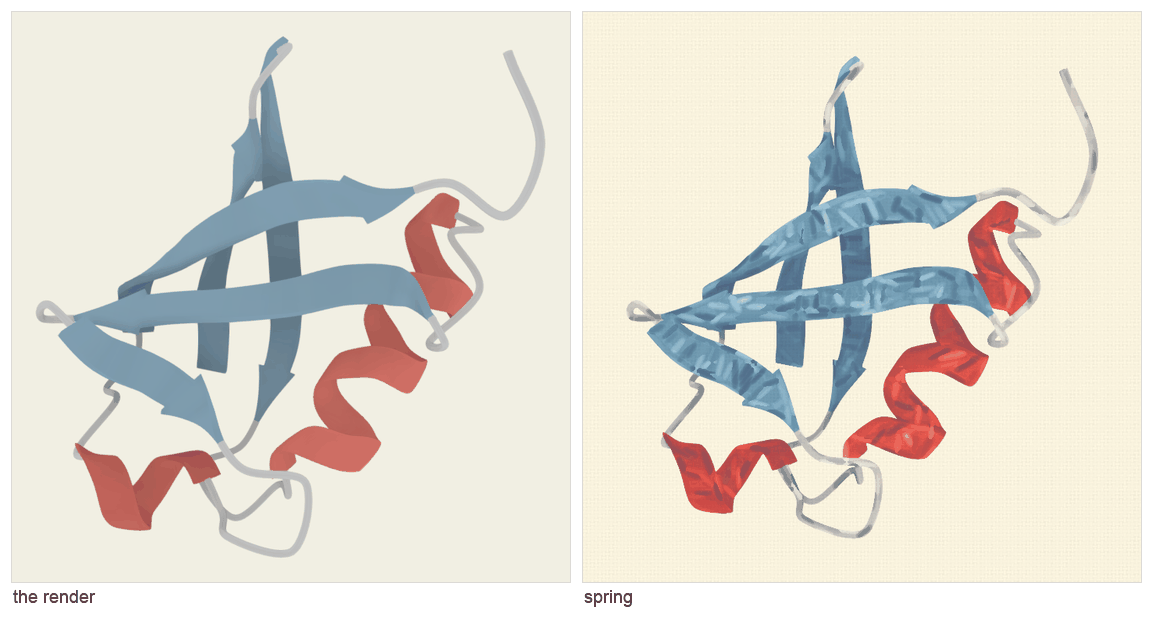
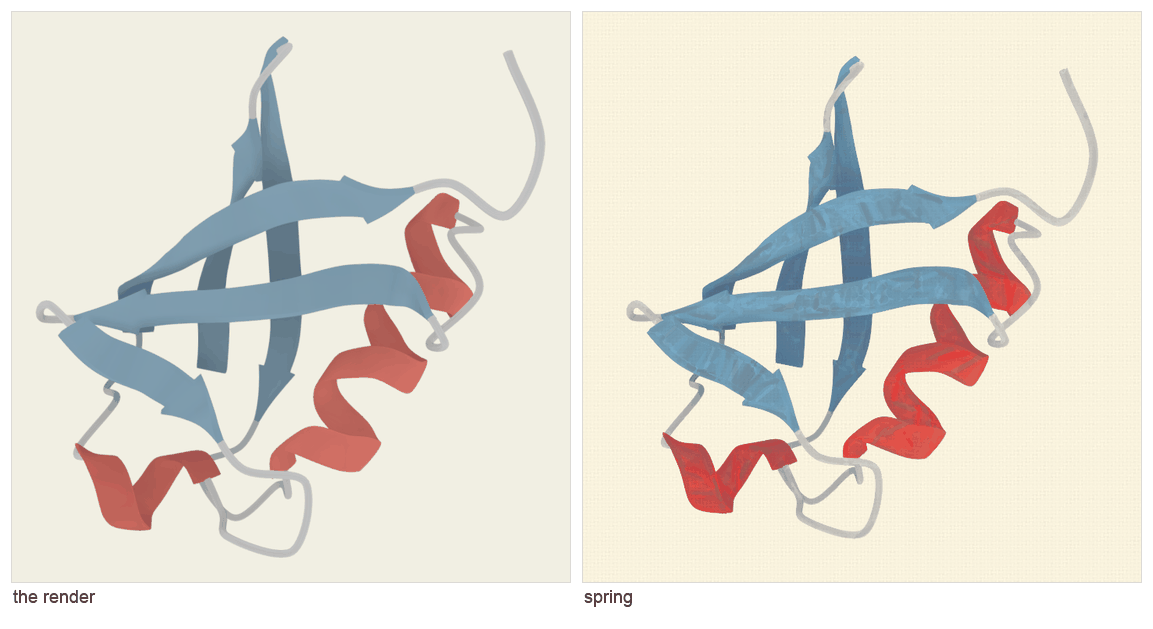
Stop the brush marks reading as light on foil
Charlie again: *"loops look better but the ribbons still look bad, like crumpled
mylar."* The relight was already off, so this was something else — and looking
at the plate rather than at the code found it in one pass.

**The flecks were the mylar.** Each mark took a random shift of up to 30% in
*value*, and marks covered only part of the ribbon. So the picture was a smooth
curved surface with isolated bright and dark dashes scattered over it, which is
exactly what a crumpled reflective sheet looks like — random brightness *is*
light catching facets at random angles, whether or not anything was relit.

Two changes, and they are the same idea twice:

- **The marks tile.** `strokeFill` past 1, so the surface is made *of* marks
  rather than having marks on it. A mark that covers part of a surface reads as
  a fleck sitting on it; a surface made entirely of marks reads as paint.
- **The variation moved from value into chroma.** A loaded brush carries more or
  less pigment far more than it carries more or less light, so `load` shifts
  saturation — hue and lightness held, through the same Oklab path the chroma
  boost uses — and `bristle` keeps only a whisper of value, 0.05 to 0.07 against
  the 0.30 that was doing the damage.

The three bright looks now also differ in *how much brush you see*: `spring` is
the quietest, `orchard` in between, `poster` the most worked, at 0.24 / 0.42 /
0.62 of load with mark widths to match.
[…]

diff --git a/viewer/src/painterly-looks.ts b/viewer/src/painterly-looks.ts
@@ -82,8 +82,17 @@ export interface Look {
    *  a plain wedge; at 1 it is an eased ridge with the paint thinning to
    *  nothing at both edges, which is the section a bristle leaves. */
   ridge: number;
-  /** How strongly the bristle modulates colour. */
+  /** How much a stroke's own tone shifts its *value*.
+   *
+   * Small, and it has to be. A random brightness per mark on a curved surface
+   * is what crumpled foil looks like — random brightness *is* light catching
+   * facets at random angles — and at 0.30 that is exactly what it looked
+   * like. */
   bristle: number;
+  /** How much a stroke's own tone shifts its *chroma*: how loaded the brush
+   *  was. This is where the variation belongs, because a brush carries more or
+   *  less pigment far more than it carries more or less light. */
+  load: number;
   /** How thick the paint stands off the canvas, for the raking light.
    *
    * **Zero for every bright look, and that is the finding rather than a
@@ -147,9 +156,10 @@ export const PAINTERLY_LOOKS: Record<string, Look> = {
     // where the brush went — but it describes the form rather than performing.
     stroke: 1 / 26,
     grain: 1 / 150,
-    strokeFill: 0.8,
+    strokeFill: 1.15,
     ridge: 0.55,
-    bristle: 0.2,
+    bristle: 0.07,
+    load: 0.2,
     relief: 6,
     specular: 0.04,
     chroma: 1.0,
@@ -165,8 +175,13 @@ export const PAINTERLY_LOOKS: Record<string, Look> = {
   // and stays where it is instead of going brown and going down. And `chroma`
   // is above 1, because the abstraction is a mean and a mean desaturates.
 
-  // Soft, high-key, luminous. A gouache rather than an oil: matte, barely any
-  // specular, a light weave.
+  // The three bright looks differ in *how much brush you see*, as well as in
+  // colour: `spring` is the quietest, `orchard` in between, `poster` the most
+  // worked. That is `load` and the mark's width — not `bristle`, which is
+  // value, and value is the one thing a brush mark must not vary much.
+  //
+  // Soft, high-key, luminous. A gouache rather than an oil: matte, no specular,
+  // a light weave, and the quietest brush of the three.
   spring: {
     glaze: 0.34,
     shadowColor: [0.62, 0.66, 0.92],
@@ -181,9 +196,10 @@ export const PAINTERLY_LOOKS: Record<string, Look> = {
     weave: 0.05,
     stroke: 1 / 30,
     grain: 1 / 170,
-    strokeFill: 0.78,
+    strokeFill: 1.2,
     ridge: 0.7,
-    bristle: 0.3,
+    bristle: 0.06,
+    load: 0.24,
     relief: 0,
     specular: 0.0,
     chroma: 1.5,
@@ -205,10 +221,11 @@ export const PAINTERLY_LOOKS: Record<string, Look> = {
     eccentricity: 1,
     weave: 0.04,
     stroke: 1 / 34,
-    grain: 1 / 190,
-    strokeFill: 0.72,
+    grain: 1 / 105,
+    strokeFill: 1.0,
     ridge: 0.8,
-    bristle: 0.32,
+    bristle: 0.05,
+    load: 0.62,
     relief: 0,
     specular: 0.0,
     chroma: 1.55,
@@ -229,10 +246,11 @@ export const PAINTERLY_LOOKS: Record<string, Look> = {
     eccentricity: 1,
     weave: 0.06,
     stroke: 1 / 28,
-    grain: 1 / 160,
-    strokeFill: 0.76,
+    grain: 1 / 130,
+    strokeFill: 1.1,
     ridge: 0.65,
-    bristle: 0.3,
+    bristle: 0.07,
+    load: 0.42,
     relief: 0,
     specular: 0.0,
     chroma: 1.4,

diff --git a/viewer/src/painterly-shaders.ts b/viewer/src/painterly-shaders.ts
@@ -257,6 +257,7 @@ uniform float uStrokeLen;
 uniform float uStrokeWidth;
 uniform float uStrokeFill;
 uniform float uBristle;
+uniform float uLoad;
 uniform float uRidge;
 uniform float uRelief;
 uniform float uSpecular;
@@ -503,6 +504,11 @@ vec3 strokeAt(const in vec2 P) {
             float r = along * along * along * along + across * across;
             if (r >= 1.0) continue;
 
+            // Nearest paint wins, and the marks are laid to *tile* rather than
+            // to speckle. A mark that covers part of a surface reads as a
+            // fleck sitting on it; a surface made entirely of marks reads as
+            // paint. The first is what crumpled foil looks like, and it is
+            // what this produced until the fill went past 1.
             float cover = 1.0 - r;
             if (cover <= best.z) continue;
             // Across the width: a crest with the paint thinning to nothing at
@@ -663,9 +669,18 @@ void main(void) {
     // not a threshold anybody has to tune.
     float onPaint = z0 > -2.0 * uFar ? 1.0 : uGroundPaint;
 
-    // Tone varies *by stroke*, not by pixel. That is the whole difference
-    // between a loaded brush and a layer of grain.
-    col *= 1.0 + uBristle * onPaint * (mark.x - 0.5) * 2.0 * mark.z;
+    // Tone varies by stroke, and mostly in *chroma* rather than in value.
+    //
+    // Value was the mylar. A random brightness shift per mark, on a curved
+    // surface, is exactly what a crumpled reflective sheet looks like — it
+    // reads as light catching facets at random angles, because that is what
+    // random brightness *is*. A loaded brush varies far more in how much
+    // pigment it is carrying than in how bright it is, so the variation goes
+    // into chroma, where it reads as paint, and only a whisper is left in
+    // value.
+    float pigment = (mark.x - 0.5) * 2.0 * mark.z * onPaint;
+    col *= 1.0 + uBristle * pigment;
+    col = boostChroma(col, 1.0 + uLoad * pigment);
 
     // -- the thickness of the paint -------------------------------------------
     // A height field from the same streaks, relit. Applied to luminance rather

diff --git a/viewer/src/painterly.ts b/viewer/src/painterly.ts
@@ -216,6 +216,7 @@ const BrushSchema = {
   uStrokeFill: UniformSpec('f'),
   uRidge: UniformSpec('f'),
   uBristle: UniformSpec('f'),
+  uLoad: UniformSpec('f'),
   uRelief: UniformSpec('f'),
   uSpecular: UniformSpec('f'),
   uFar: UniformSpec('f'),
@@ -329,6 +330,7 @@ function buildState(webgl: any, width: number, height: number, radius: number): 
     uStrokeFill: ValueCell.create(0.8),
     uRidge: ValueCell.create(0),
     uBristle: ValueCell.create(0),
+    uLoad: ValueCell.create(0),
     uRelief: ValueCell.create(0),
     uSpecular: ValueCell.create(0),
     uFar: ValueCell.create(100),
@@ -526,6 +528,7 @@ function paint(
   ValueCell.updateIfChanged(state.brush.values.uStrokeFill, look.strokeFill);
   ValueCell.updateIfChanged(state.brush.values.uRidge, look.ridge);
   ValueCell.updateIfChanged(state.brush.values.uBristle, look.bristle);
+  ValueCell.updateIfChanged(state.brush.values.uLoad, look.load);
   // Scaled with the grain, not fixed. The relief reads `dFdx` of the streak
   // field, whose slope goes as 1/grain — so a fixed number gives a thin bristle
   // a violently steeper ridge than a thick one, and at a small plate the paint
